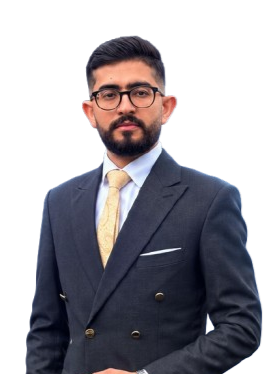
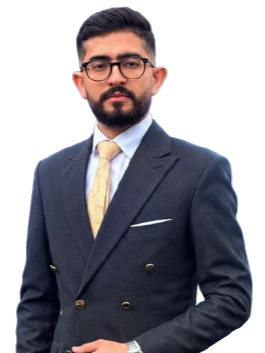
Add files via upload

diff --git a/assets/css/style.css b/assets/css/style.css
@@ -315,7 +315,7 @@ h3 {
 }
 
 h1 {
-  font-size: clamp(2.1rem, 3.2vw, 4.6rem);
+  font-size: clamp(2.1rem, 3vw, 2.9rem);
   margin-bottom: 18px;
   max-width: 860px;
 }
@@ -1102,7 +1102,7 @@ textarea {
 .word-4 { top: 74%; right: 47%; font-size: clamp(1rem, 1.8vw, 1.4rem); }
 .word-5 { top: 15%; left: 24%; font-size: clamp(0.9rem, 1.4vw, 1.15rem); opacity: 0.7; }
 .word-6 { top: 38%; left: 14%; font-size: clamp(1.05rem, 1.8vw, 1.45rem); }
-.word-7 { top: 54%; left: 30%; font-size: clamp(0.9rem, 1.4vw, 1.1rem); opacity: 0.65; }
+.word-7 { top: 54%; left: 26%; font-size: clamp(0.9rem, 1.4vw, 1.1rem); opacity: 0.65; }
 .word-8 { bottom: 18%; left: 16%; font-size: clamp(1rem, 1.6vw, 1.35rem); }
 .word-9 { bottom: 34%; right: 10%; font-size: clamp(0.95rem, 1.5vw, 1.2rem); opacity: 0.68; }
 .word-10 { top: 28%; left: 58%; font-size: clamp(0.95rem, 1.5vw, 1.25rem); opacity: 0.72; }
@@ -1300,11 +1300,11 @@ html[dir="rtl"] .nav-actions {
 
 .hero-portrait {
   width: min(100%, 430px);
-  max-height: 560px;
+  max-height: 600px;
   object-fit: contain;
   object-position: bottom center;
   filter: drop-shadow(0 28px 40px rgba(0, 0, 0, 0.35));
-  padding-bottom: 20px;
+      padding-bottom: 20px;
 }
 
 [data-theme="light"] .hero-portrait-card::after {